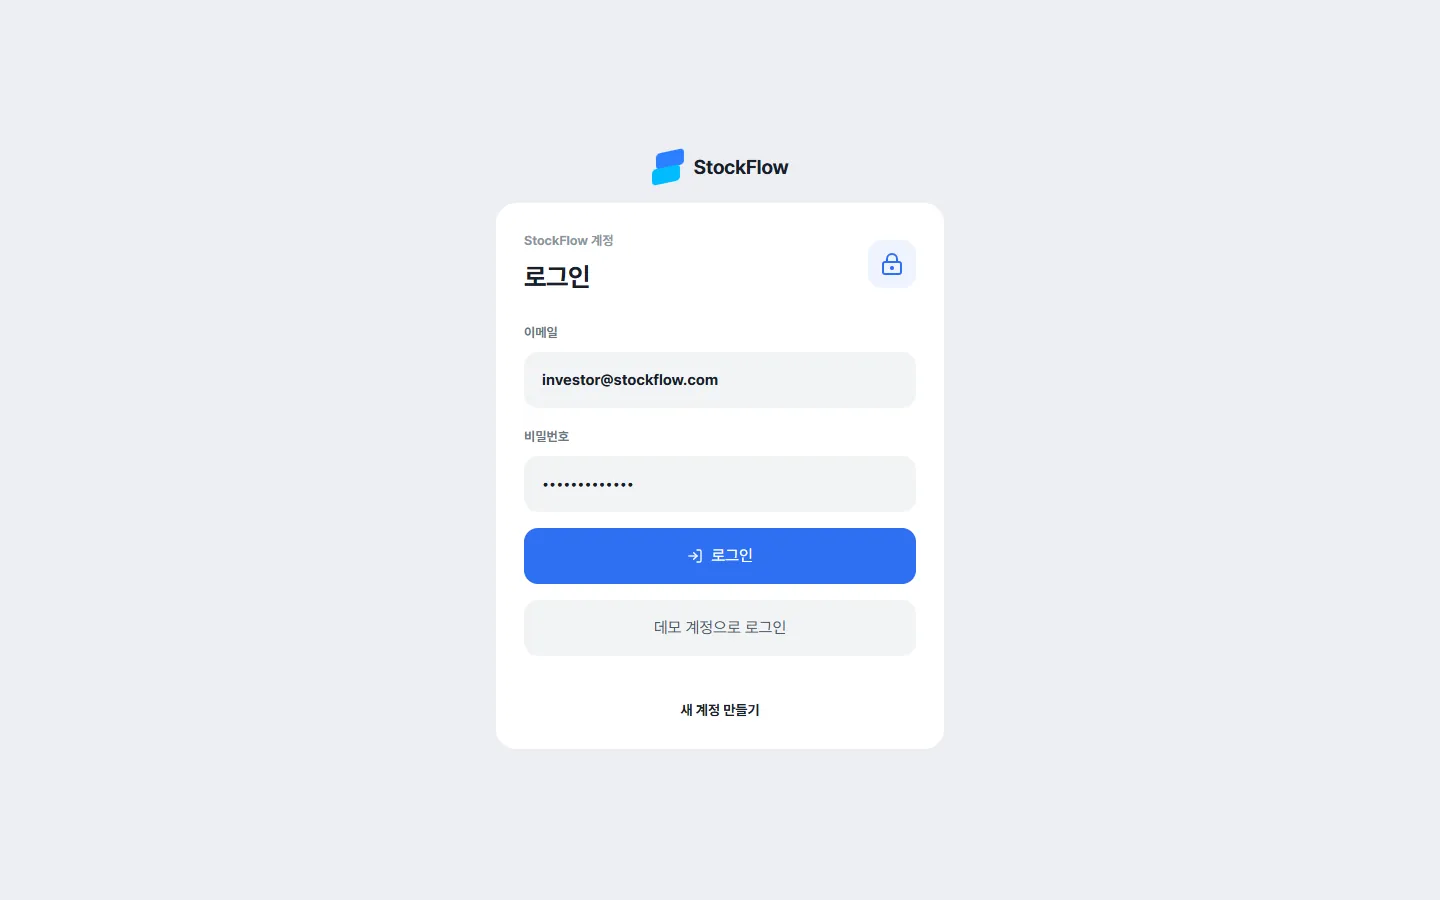
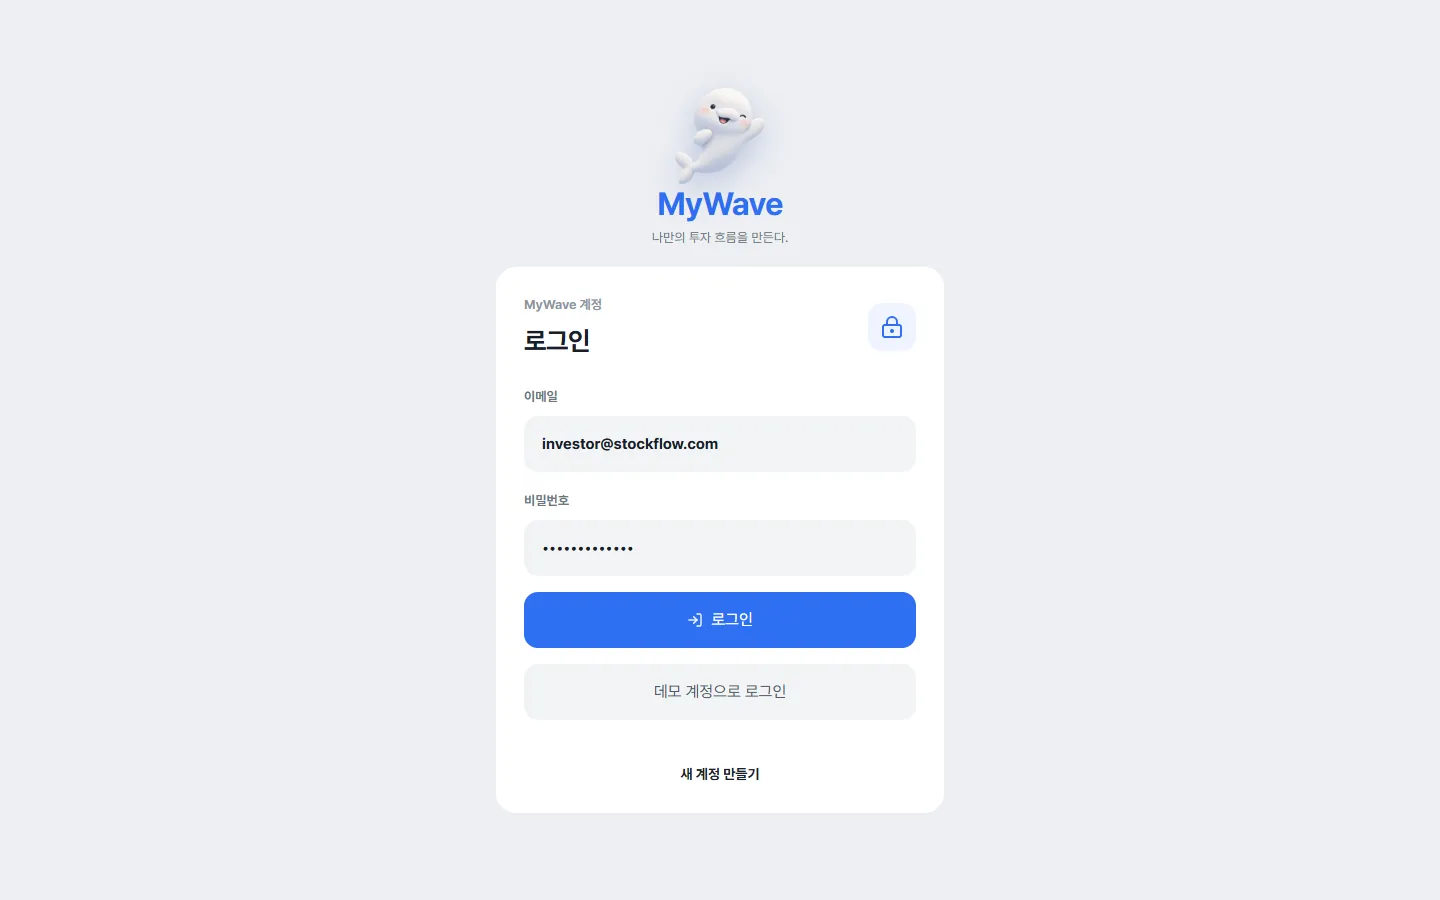
[DOCS] 고친 네 가지를 문서에 반영하고 바뀐 화면 캡처를 새로 찍었다 -재훈

diff --git a/docs/ERD.md b/docs/ERD.md
@@ -45,7 +45,7 @@ erDiagram
     MONTHLY_BUDGET {
         bigint id PK
         bigint member_id FK
-        varbinary budget_month "YearMonth, 아래 주의 참고"
+        varchar budget_month "2026-10 (7자)"
         decimal income_amount
         decimal living_budget_amount "하루 예산의 재료"
         decimal fixed_expense_amount
@@ -191,7 +191,13 @@ erDiagram
 
 ## 주의: 아직 고치지 않은 점
 
-- `monthly_budget.budget_month`가 `varbinary(255)`입니다. `YearMonth`에 변환기(`AttributeConverter`)를 달지 않아서 Hibernate가 자바 객체를 직렬화해 넣고 있습니다. 앱에서는 동작하지만 DB에서 `WHERE budget_month = '2026-10'`처럼 읽을 수 없습니다. `char(7)`로 저장하는 변환기를 다는 것이 맞습니다.
+> **MySQL을 이미 쓰고 있었다면.** `monthly_budget.budget_month`는 원래 자바 객체를 직렬화한 `varbinary`로 저장되고 있었고, [`YearMonthConverter`](../backend/src/main/java/com/stockflow/global/persistence/YearMonthConverter.java)를 단 뒤로는 `varchar(7)`에 `2026-10`처럼 들어갑니다. H2는 띄울 때마다 새로 만들어서 상관없지만, MySQL은 `ddl-auto: update`가 기존 컬럼 타입을 바꾸지 않습니다. 예전 값은 새 형식으로 읽을 수 없으므로, 예산을 다시 입력하기로 하고 아래처럼 비운 뒤 타입을 바꿔야 합니다.
+>
+> ```sql
+> DELETE FROM monthly_budget;
+> ALTER TABLE monthly_budget MODIFY budget_month VARCHAR(7);
+> ```
+
 - `monthly_budget`의 `(member_id, budget_month)`, `holding`의 `(portfolio_id, stock_id)`는 코드에서는 하나만 있다고 가정하는데 유니크 제약이 없습니다.
 - 자주 쓰는 조회 조건인 `expense(member_id, spent_date)`에 인덱스가 없습니다. 지금 데이터 크기에서는 문제가 없습니다.
 

diff --git a/docs/SCREENS.md b/docs/SCREENS.md
@@ -96,8 +96,10 @@
 
 ---
 
-## 캡처하면서 발견한 것
+## 캡처하면서 발견해 고친 것
 
-- **헤더 제목이 "홈"으로 뜨는 화면이 여섯 개입니다.** 자산, 알림, 프로필, 검색, 기업 상세, 시작하기 화면입니다. 헤더 제목을 정하는 [`pageMeta()`](../frontend/src/mywave/MyWaveApp.tsx)가 목표, 소비, 투자, 리포트, 코치 다섯 경로만 알고, 나머지는 전부 "홈"으로 떨어집니다.
-- **로그인 화면만 옛 이름 "StockFlow"입니다.** 로그인 뒤 화면은 전부 MyWave인데, 재사용한 `AuthPage`의 로고와 문구는 그대로입니다.
-- **결제 캡처 안내의 벨루가 말풍선에 숫자가 들어갑니다.** "오늘 N장 남았고"라는 문장인데, 말풍선에는 숫자를 넣지 않는다는 규칙과 어긋납니다(OpenAI를 켰을 때만 보입니다).
+처음 캡처할 때 아래 세 가지가 보여서 고쳤습니다.
+
+- 자산, 알림, 프로필, 검색, 기업 상세, 시작하기 화면의 헤더 제목이 "홈"으로 뜨던 것. [`pageMeta()`](../frontend/src/mywave/MyWaveApp.tsx)가 이 여섯 경로를 몰랐습니다.
+- 로그인 화면만 옛 이름 "StockFlow"였던 것. 지금은 벨루가와 MyWave 로고가 뜹니다.
+- 결제 캡처 안내의 벨루가 말풍선에 "오늘 N장 남았고"가 들어가던 것. 남은 횟수는 말풍선이 아니라 버튼 아래 작은 글씨로 옮겼습니다.
